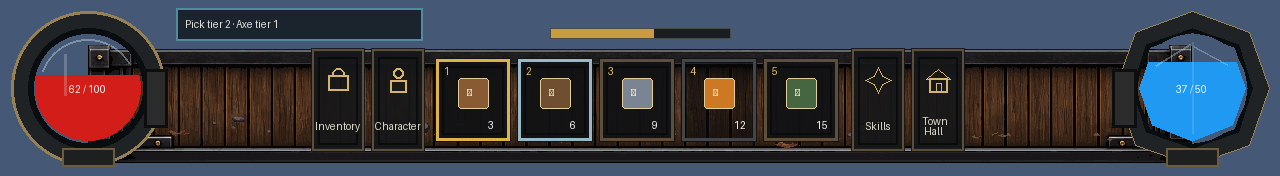
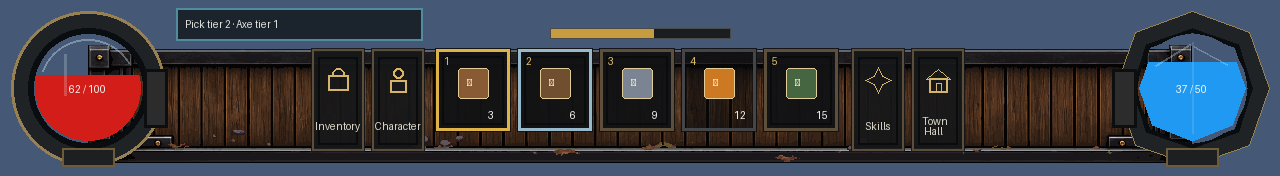
Align HUD controls to the dock rail

diff --git a/scripts/art/sync_hud_kit.py b/scripts/art/sync_hud_kit.py
@@ -173,6 +173,14 @@ def validate_layout(layout: dict, sizes: dict[str, tuple[int, int]]) -> list[str
         button_size = (button_rects[0][2], button_rects[0][3])
         if any((rect[2], rect[3]) != button_size for rect in button_rects):
             raise ValueError("all button rectangles must share one size")
+        control_top = layout.get("control_rail_y")
+        if not isinstance(control_top, int):
+            raise ValueError("control_rail_y must be an integer")
+        if any(rect[1] != control_top for rect in slot_rects + button_rects):
+            raise ValueError(
+                "slot and button rectangles must use control_rail_y so dock controls "
+                "share the backplate rail top edge"
+            )
         button_content = layout.get("button_content", {})
         if not isinstance(button_content, dict):
             raise ValueError("button_content must be an object")

diff --git a/scripts/art/build_hud_kit_placeholders.py b/scripts/art/build_hud_kit_placeholders.py
@@ -243,6 +243,7 @@ def main() -> int:
             "foreground_trim_rect": [0, 0, W, H],
             "safe_bottom": 8,
         },
+        "control_rail_y": 48,
         "health": {
             "frame_rect": [8, 8, 160, 160],
             "fill_rect": [34, 34, 108, 108],
@@ -255,7 +256,7 @@ def main() -> int:
             "glass_rect": [1138, 34, 108, 108],
             "label_rect": [1152, 79, 80, 18],
         },
-        "slots": [[435 + i * 82, 58, 76, 84] for i in range(5)],
+        "slots": [[435 + i * 82, 48, 76, 84] for i in range(5)],
         "slot_content": {
             "icon_rect": [23, 20, 30, 30],
             "count_rect": [45, 60, 24, 16],